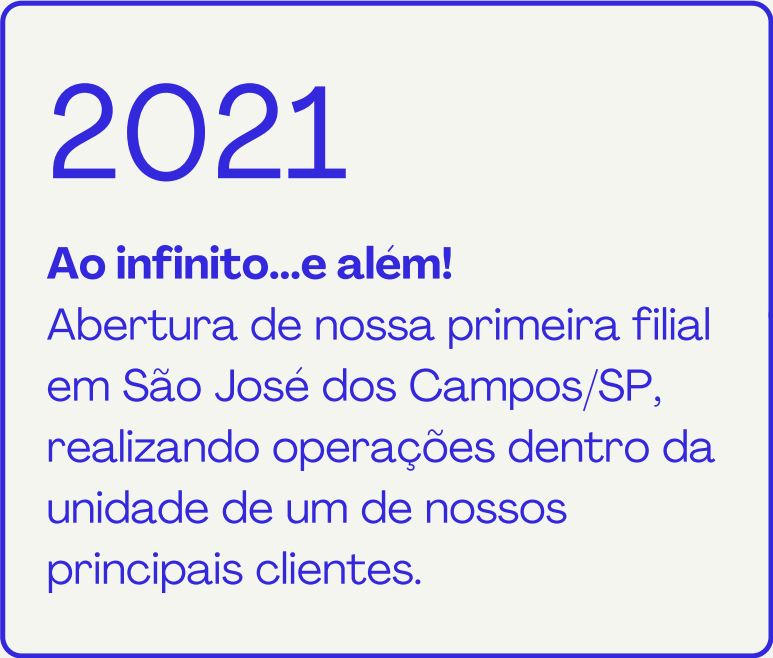
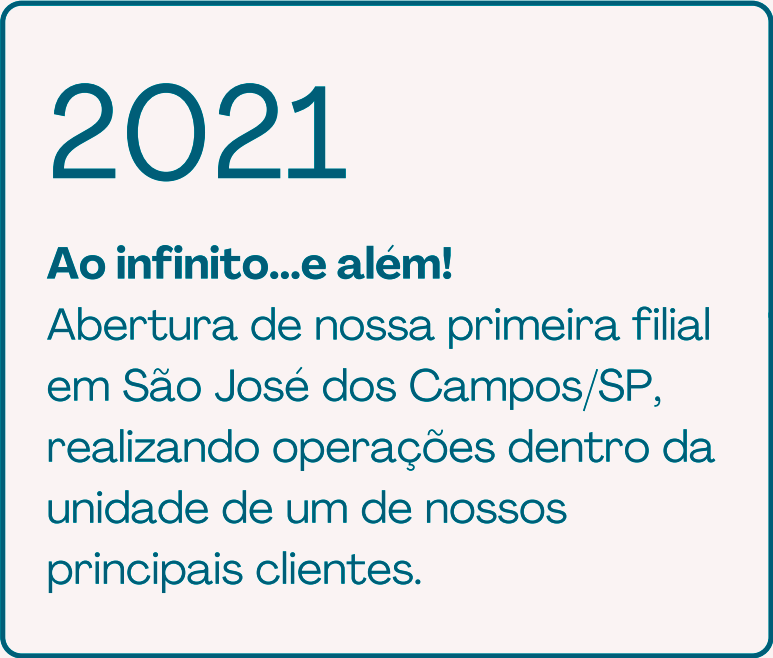
Imagens
Imagens para o nossa história

diff --git a/components/Historia/index.vue b/components/Historia/index.vue
@@ -4,37 +4,32 @@
         <hr class="custom-hr">    
         <hr class="custom-hr">   
         <div class="titulo">
-        <h1 class="about-us-title" style="font-family: 'Outfit', sans-serif;" v-motion-slide-visible-once-bottom>
+        <h1 class="titulo_historia" style="font-family: 'Outfit', sans-serif;" v-motion-slide-visible-once-bottom>
           NOSSA HISTÓRIA
         </h1>
-        <h2 class="about-us-title2" style="font-family: 'Outfit', sans-serif;" v-motion-slide-visible-once-bottom>
-          O COMEÇO: 
-        <hr class="custom-hr">   
-      </h2>
+        <hr class="custom-hr">     
+        <hr class="custom-hr">     
       </div>
       <div class="historia">
-        <div v-motion-fade-visible-once class="about-us-image">
-          <img draggable="false" src="../../assets/images/1999.png" v-motion-fade-visible-once class="about-us-image-img">
+        <div v-motion-fade-visible-once class="imagens_historia">
+          <img draggable="false" src="../../assets/images/1999.png" v-motion-fade-visible-once class="imagens_historia-img">
           <div class="Linha"></div>
-          <img draggable="false" src="../../assets/images/2004.png" v-motion-fade-visible-once class="about-us-image-img">
+          <img draggable="false" src="../../assets/images/2004.png" v-motion-fade-visible-once class="imagens_historia-img">
           <div class="Linha"></div>
-          <img draggable="false" src="../../assets/images/2007.png" v-motion-fade-visible-once class="about-us-image-img">
+          <img draggable="false" src="../../assets/images/2007.png" v-motion-fade-visible-once class="imagens_historia-img">
           <div class="Linha"></div>
-          <img draggable="false" src="../../assets/images/2010.png" v-motion-fade-visible-once class="about-us-image-img">
+          <img draggable="false" src="../../assets/images/2010.png" v-motion-fade-visible-once class="imagens_historia-img">
         </div>
         <hr class="custom-hr">   
-        <h2 class="about-us-title2" style="font-family: 'Outfit', sans-serif;" v-motion-slide-visible-once-bottom>
-          NOSSO DESENVOLVIMENTO: 
-        <hr class="custom-hr">   
-      </h2>
-        <div v-motion-fade-visible-once class="about-us-image">
-          <img draggable="false" src="../../assets/images/2012.png" v-motion-fade-visible-once class="about-us-image-img">
+        <img draggable="false" src="../../assets/images/seta_ligacao (1).png" v-motion-fade-visible-once class="ligacao">
+        <div v-motion-fade-visible-once class="imagens_historia">
+          <img draggable="false" src="../../assets/images/2012 (2).png" v-motion-fade-visible-once class="imagens_historia-img">
           <div class="Linha"></div>
-          <img draggable="false" src="../../assets/images/2017.png" v-motion-fade-visible-once class="about-us-image-img">
+          <img draggable="false" src="../../assets/images/2017.png" v-motion-fade-visible-once class="imagens_historia-img">
           <div class="Linha"></div>
-          <img draggable="false" src="../../assets/images/2019.png" v-motion-fade-visible-once class="about-us-image-img">
+          <img draggable="false" src="../../assets/images/2019.png" v-motion-fade-visible-once class="imagens_historia-img">
           <div class="Linha"></div>
-          <img draggable="false" src="../../assets/images/2021.png" v-motion-fade-visible-once class="about-us-image-img">
+          <img draggable="false" src="../../assets/images/2021.png" v-motion-fade-visible-once class="imagens_historia-img">
         </div>
       </div>
     </div>
@@ -42,6 +37,12 @@
   </template>
   
 <style>
+.ligacao {
+  margin-left: 15%;
+  margin-top: -5%;
+  width: 70%; /* Aumenta a largura da imagem para 150% do tamanho original */
+  height: auto; /* Mantém a proporção da imagem */
+}
 .historia {
   margin-left: 2.6%; /* Espaço à esquerda */
   margin-right: 2.6%; /* Espaço à direita */  
@@ -52,18 +53,22 @@
   flex-direction: column;
   gap: 20px; /* Espaço entre linhas de imagens */
 }
-.about-us-title {
-  font-size: 6rem;
-  color:rgb(7, 7, 100);
+.titulo_historia {
+  font-size: 6rem;  display: flex;
+  justify-content: center; /* Centraliza horizontalmente */
+  align-items: center; /* Centraliza verticalmente se o contêiner tiver altura */
+  color:#01385C;
 }
-.about-us-title2 {
+.titulo_historia2 {
   font-size: 4rem;
+  margin-top: 3%;
+  margin-left: 5%;
 }
 .Linha {
   margin-top: 7%;
   width: 100px; /* Largura da barra horizontal antes da rotação */
   height: 5px; /* Altura da barra horizontal antes da rotação */
-  background-color: rgb(76, 76, 163); /* Cor da barra */
+  background-color: #01385C; /* Cor da barra */
   border: none; /* Remove a borda padrão */
 }
 
@@ -72,16 +77,16 @@ background-color: rgba(255, 255, 255, 0);
 color: rgba(255, 255, 255, 0);
 }
 /* Contêiner de imagens individuais */
-.about-us-image {
+.imagens_historia {
   display: flex;
   justify-content: center; /* Centraliza as imagens horizontalmente */
   flex-wrap: wrap; /* Permite que as imagens quebrem para a linha seguinte se necessário */
 }
 
 /* Estilo das imagens */
-.about-us-image-img {
-  width: 20%; /* Define a largura desejada */
-  height: 20%; /* Define a altura desejada */
+.imagens_historia-img {
+  width: 18%; /* Define a largura desejada */
+  height: 18%; /* Define a altura desejada */
   object-fit: contain; /* Ajusta a imagem para caber no contêiner sem cortar */
   border-radius: 5px; /* Adiciona cantos arredondados */
 }

diff --git a/components/Servicos/index.vue b/components/Servicos/index.vue
@@ -175,17 +175,14 @@ export default {
 
   /* Contêiner de imagens */
   .texto-anterior {
-    margin-left: 12%; /* Espaço à esquerda */
-    margin-right: 12%; /* Espaço à direita */  
+    margin-left: 10%; /* Espaço à esquerda */
+    margin-right: 10%; /* Espaço à direita */  
     background-size: cover;
     background-position: center;
     background-repeat: no-repeat;
-    background: 
-        /* Gradiente horizontal: Branco nas laterais e cinza no centro */
-        linear-gradient(to right, white 0%, white 25%, rgb(226, 226, 226) 50%, white 75%, white 100%),
-        /* Gradiente vertical: Branco no topo e cinza no centro */
-        linear-gradient(to bottom, white 0%, rgb(226, 226, 226) 50%, rgb(228, 228, 228) 100%);
-
+    background-color: rgb(223, 223, 223);
+    border-radius: 80px; 
+    border: 3px solid #01385C;
 }
 
   .animado {
